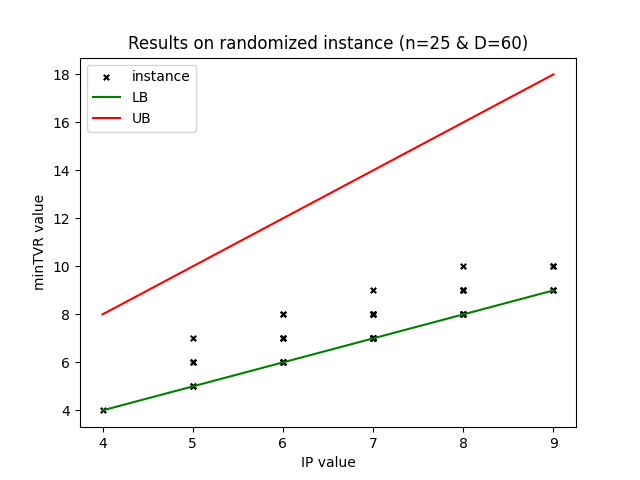
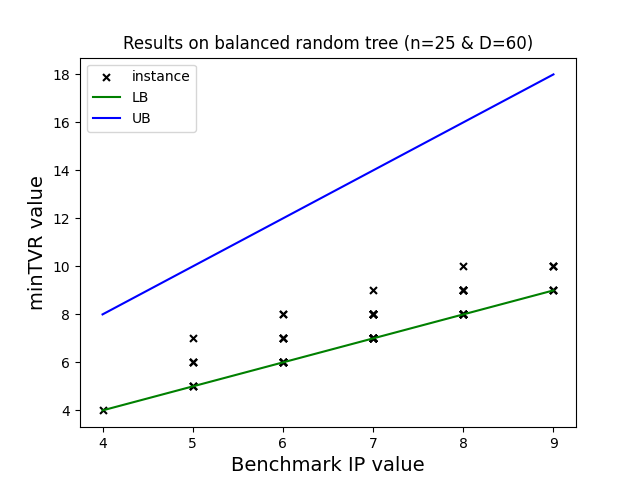
Update: plots

diff --git a/get.py b/get.py
@@ -34,7 +34,7 @@ for i in range(m):
     file_path = os.path.join('out', mode, f'{n}-{D}', f"{i+1}.txt")
     results = read_results(file_path, 1)[0].rstrip("\n").split(" ")
     if len(results) == 7:
-    # if results[0] != 'Terminated':
+        # if results[0] != 'Terminated':
         results = np.array(results, dtype=np.float32)
         minTVR, IP, ratio, build_time, sol_time, tot_time, minTVR_time = results
         # if ratio==2:
@@ -46,18 +46,19 @@ summary = np.array(summary)
 print(summary)
 
 x, y = summary[:,1], summary[:,0]
-plt.scatter(x,y, color='black', label='instance', marker='x',s=15)
+plt.scatter(x,y, color='black', label='instance', marker='x',s=25)
 
 x_line = np.linspace(min(x), max(x), 100)  # Generate x values for the line
 y_line_1 = x_line 
 y_line_2 = 2 * x_line
 plt.plot(x_line, y_line_1, color='green', label='LB')
-plt.plot(x_line, y_line_2, color='red', label='UB')
+plt.plot(x_line, y_line_2, color='blue', label='UB')
 plt.xticks(np.arange(int(np.floor(min(x))), int(np.ceil(max(x))) + 1, 1))
 
-plt.xlabel('IP value')
-plt.ylabel('minTVR value')
-plt.title(f'Results on randomized instance (n={n} & D={D})')
+plt.xlabel('Benchmark IP value', fontsize=14)
+plt.ylabel('minTVR value', fontsize=14)
+# tag = 'B' if mode=='balanced' else 'IB'
+plt.title(f'Results on {mode} random tree (n={n} & D={D})')
 
 plt.legend()
 fname = os.path.join('figure', f"{mode}-{n}-{D}.png")
